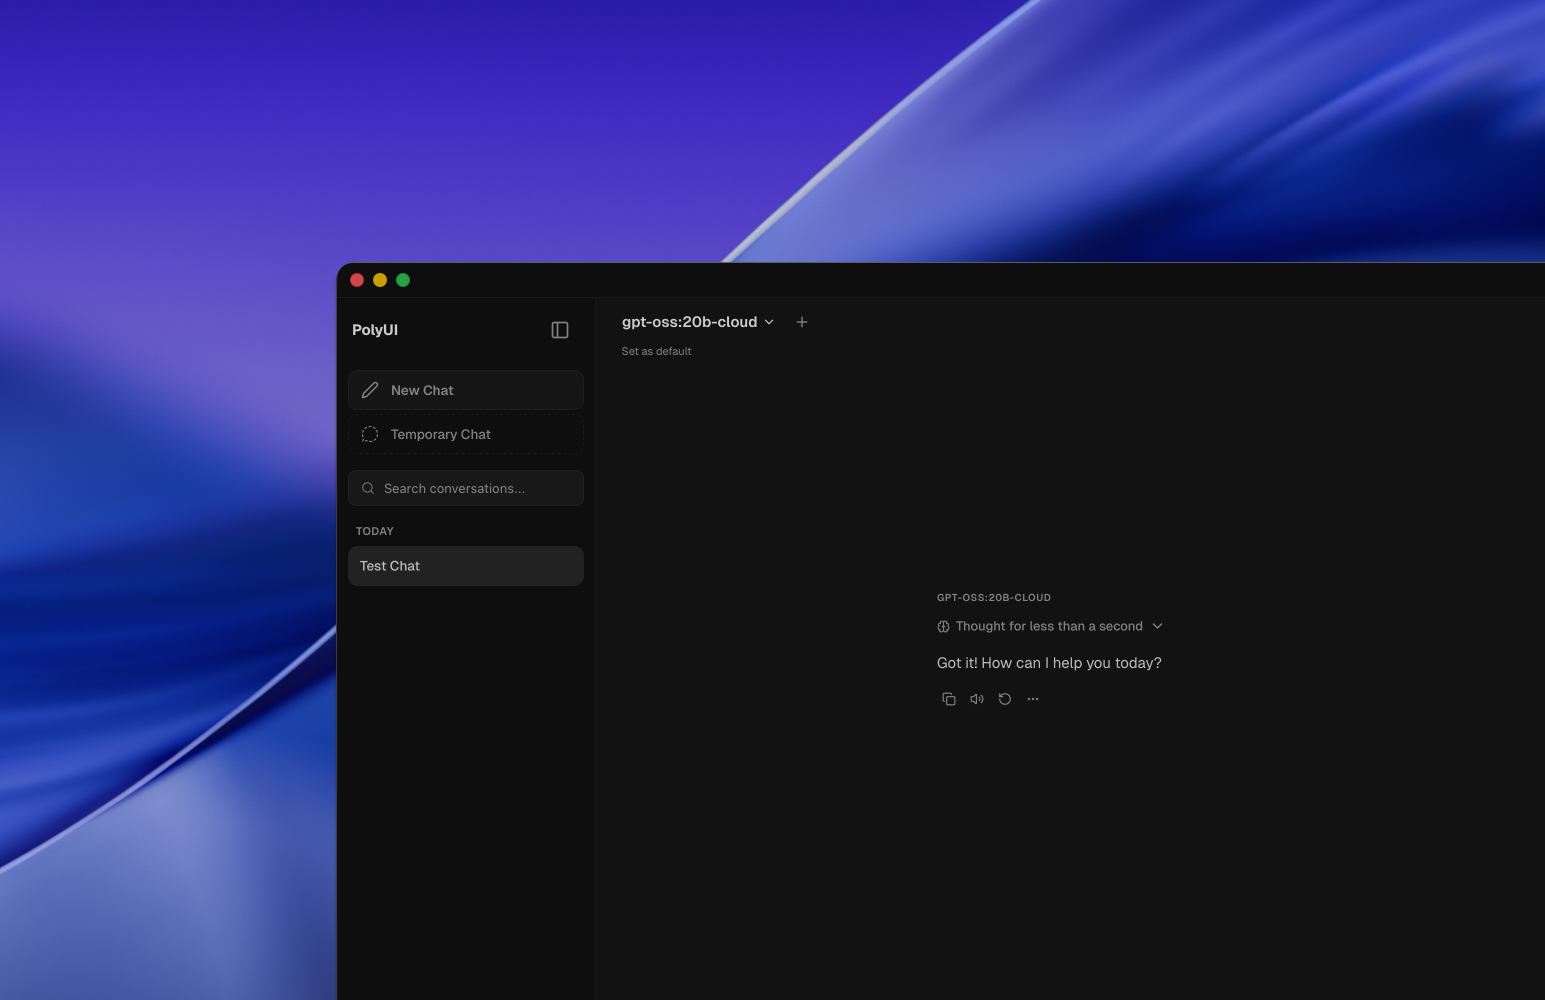
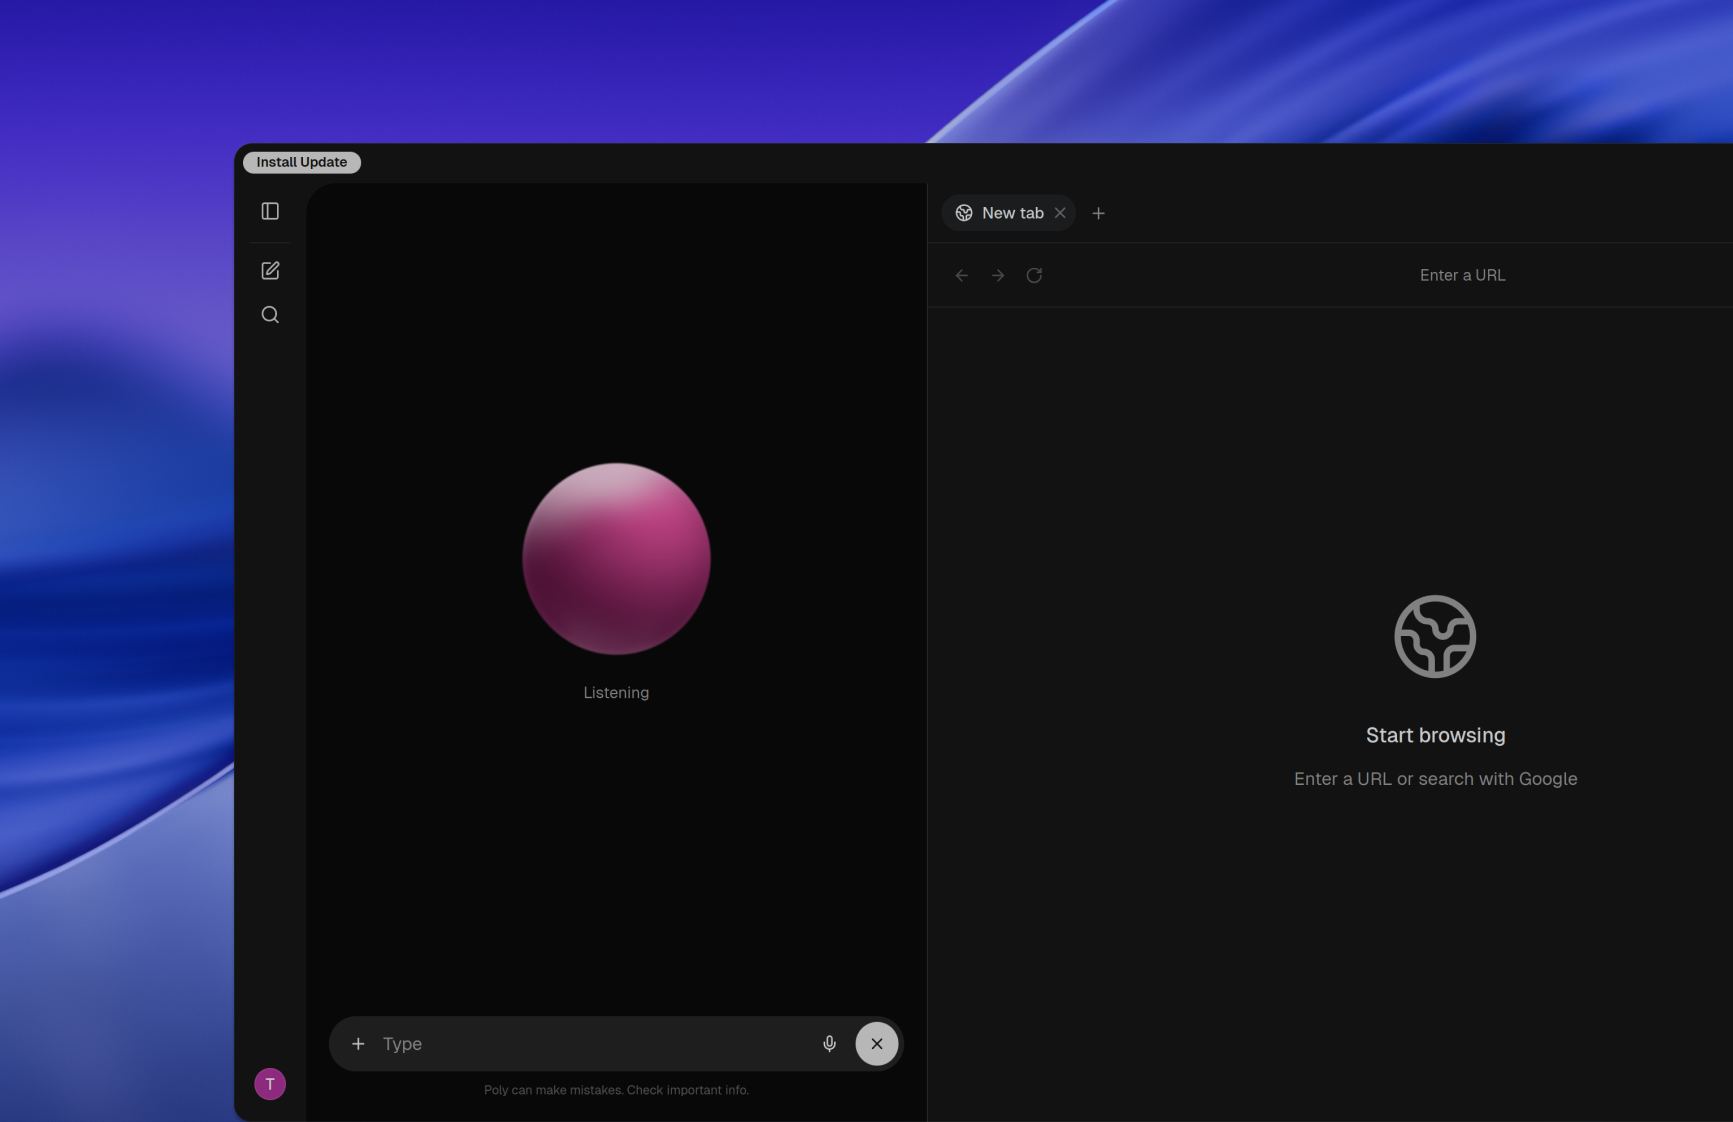
Update demo images

diff --git a/README.md b/README.md
@@ -12,7 +12,7 @@
 
 PolyUI is a desktop AI chat app that runs entirely offline. One calm window for your models - use Ollama, OpenAI-compatible APIs, and more. Built for private, everyday conversations with local LLMs.
 
-![polyui demo](public/PolyUI_Demo.png)
+![polyui demo](public/PolyUI_Demo.png)s
 
 ## Key features of PolyUI
 